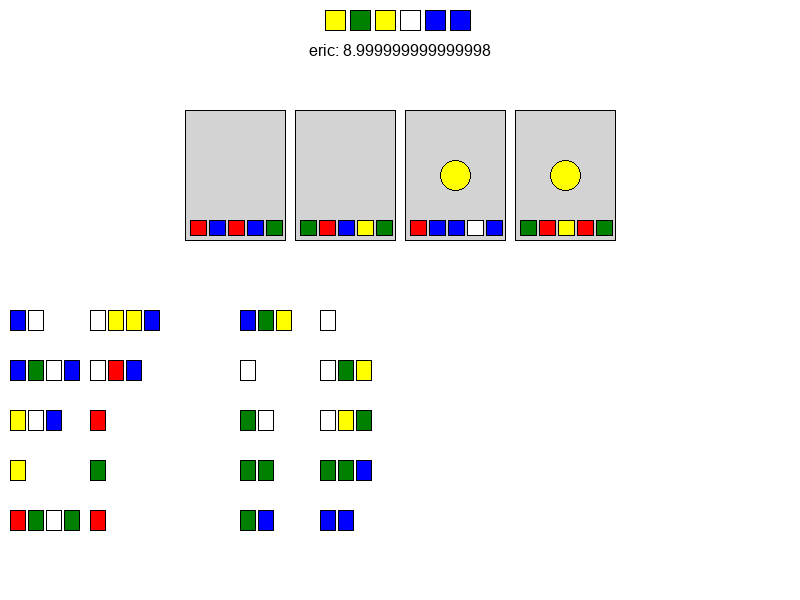
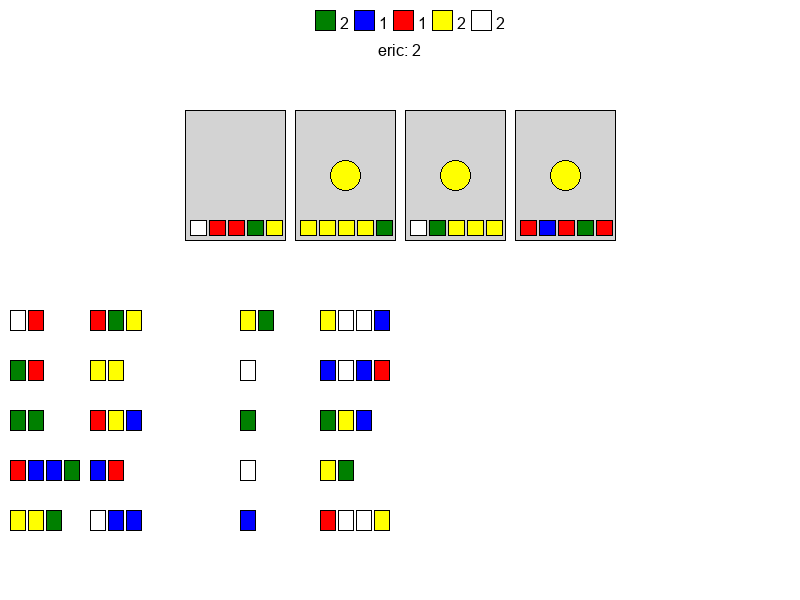
changed data types and implemented validity

diff --git a/components/referee.py b/components/referee.py
@@ -3,7 +3,7 @@ from .pebble import Pebble
 from .equation import Equation
 from .card import Card
 from math import prod
-
+from collections import Counter
 class Referee(object):
 
     def __init__(self,num_equations=10,cards_in_deck=20,cards_in_field=4,num_of_pebbles=100):
@@ -45,40 +45,79 @@ class Referee(object):
         return cards
     
     def initialize_bank(self):
-        bank = []
+        bank = {}
         for i in range(self.num_of_pebbles):
-            bank.append(choice(list(Pebble)))
+            pebble = choice(list(Pebble))
+            if pebble in bank.keys():
+                bank[pebble] += 1
+            else:
+                bank[pebble] = 1
         return bank
 
-    def live(self,board):
-        return 0 != prod([len(board.bank) > 0, len(board.fieldcards) > 0])
+    def live(self,board,players):
+        return len(board.deck) > 0 and 0 != prod([player.score < 20 for player in players])  
     
     def draw(self,board,player):
-        pebble = board.bank.pop(-1)
+        pebble = choice(list(board.bank.keys()))
+        board.bank[pebble] += -1
         player.draw(pebble)
     
     def exchange(self,query,board,player):
         equation = board.equations[query['equation']]
-        try:
-            for input in equation.input:
-                player.pebbles.remove(input)
-            for output in equation.output:
-                board.bank.remove(output)
-                player.draw(output)
-        except:
-            print("invalid exchange")
+        for input in equation.input:
+            player.pebbles[input] += -1
+        for output in equation.output:
+            board.bank[output] += -1
+            player.draw(output)
 
+    def legal_exchange(self,query,board,player):
+        equation = board.equations[query['equation']]
+        inputs = dict(Counter(equation.input))
+        outputs = dict(Counter(equation.output))
+        legal = True
+        for color in inputs.keys():
+            legal = color in player.pebbles.keys() and player.pebbles[color] >= inputs[color]
+            if legal == False:
+                return False
+            else:
+                continue
+        for color in outputs.keys():
+            legal = color in board.bank.keys() and board.bank[color] >= outputs[color]
+            if legal == False:
+                return False
+            else:
+                continue
+        return legal
+    
     def purchase(self,query,board,player):
         card = board.fieldcards[query['card']]
         inputs = card.cost
         try:
             for input in inputs:
-                player.pebbles.remove(input)
+                player.pebbles[input] += -1
             board.fieldcards.pop(query['card'])
             board.fieldcards.append(board.deck.pop(-1))
+            return card
         except Exception as e:
             print(str(e))
             print("invalid purchase")
     
-    def score(self,player):
-        player.score += len(player.pebbles) / 3
+    def legal_purchase(self,query,board,player):
+        card = board.fieldcards[query['card']]
+        cost = dict(Counter(card.cost))
+        legal = True
+        for color in cost.keys():
+            if color not in player.pebbles.keys() or player.pebbles[color] < cost[color]:
+                return False
+        return legal
+    
+    def score(self,player,card):
+        if sum(player.pebbles.values()) > 3:
+            player.score += 2 if card.smiley else 1
+        elif sum(player.pebbles.values()) > 2:
+            player.score +=  3 if card.smiley else 2
+        elif sum(player.pebbles.values()) > 1:
+            player.score +=  5 if card.smiley else 3
+        else:
+            player.score +=  8 if card.smiley else 5
+        

diff --git a/controller/controller.py b/controller/controller.py
@@ -1,7 +1,5 @@
 from components.action import Action
-from components.utils import Utils
-import sys
-import json
+
 class Controller:
     def __init__(self, model, view):
         self.model = model
@@ -21,7 +19,7 @@ class Controller:
         self.view.save_as_png("state.png")
     
     def live(self):
-        return self.model.referee.live(self.model.board)
+        return self.model.referee.live(self.model.board,self.model.players)
     
     def turn(self,input):
         action = input["action"]
@@ -29,13 +27,20 @@ class Controller:
         try:
             if action == f"{Action.DRAW.value}":
                 self.model.referee.draw(self.model.board,self.model.players[self.model.active_player_index])
+                return
             elif action == f"{Action.EXCHANGE.value}":
-                self.model.referee.exchange(query,self.model.board,self.model.players[self.model.active_player_index])
+                if self.model.referee.legal_exchange(query,self.model.board,self.model.players[self.model.active_player_index]):
+                    self.model.referee.exchange(query,self.model.board,self.model.players[self.model.active_player_index])
+                else:
+                    print("invalid exchange")
             elif action == f"{Action.PURCHASE.value}":
-                self.model.referee.purchase(query,self.model.board,self.model.players[self.model.active_player_index])
-                self.model.referee.score(self.model.players[self.model.active_player_index])
+                if self.model.referee.legal_purchase(query,self.model.board,self.model.players[self.model.active_player_index]):
+                    card = self.model.referee.purchase(query,self.model.board,self.model.players[self.model.active_player_index])
+                    self.model.referee.score(self.model.players[self.model.active_player_index], card)
+                else:
+                    print("invalid purchase")
             elif action == f"{Action.END.value}":
-                sys.exit()
+                return
             else:
                 print("invalid command")
         except Exception as e:

diff --git a/view/view.py b/view/view.py
@@ -132,15 +132,42 @@ class View:
         color_width = 20  # Reduced size for player colors
         color_height = 20
         padding = 5
+        text_padding = 5
 
-        start_x = (self.width - (len(colors) * (color_width + padding))) // 2
+        # Calculate the total width needed for colors and their associated text
+        total_width = sum(
+            color_width + padding + (self.draw.textbbox((0, 0), str(count), font=self.font)[2] - self.draw.textbbox((0, 0), str(count), font=self.font)[0])
+            for _, count in colors.items()
+        )
 
-        for i, color in enumerate(colors):
+        # Calculate the starting x position to center the colors and their counts
+        start_x = (self.width - total_width) // 2
+
+        current_x = start_x
+        for color, count in colors.items():
+            # Draw the color block
             self.draw.rectangle(
-                [start_x + i * (color_width + padding), 10, start_x + i * (color_width + padding) + color_width, 10 + color_height],
+                [current_x, 10, current_x + color_width, 10 + color_height],
                 fill=color.value,
                 outline="black"
             )
+
+            # Draw the count next to the color block
+            count_text = str(count)
+            text_bbox = self.draw.textbbox((0, 0), count_text, font=self.font)
+            text_width = text_bbox[2] - text_bbox[0]
+            text_height = text_bbox[3] - text_bbox[1]
+
+            self.draw.text(
+                (current_x + color_width + text_padding, 10 + (color_height - text_height) // 2),
+                count_text,
+                font=self.font,
+                fill="black"
+            )
+
+            # Move the x position for the next color and count
+            current_x += color_width + padding + text_width + text_padding
+
 
     def draw_player_score(self, player_name, score):
         text = f"{player_name}: {score}"

diff --git a/app/app.py b/app/app.py
@@ -35,14 +35,18 @@ class App:
         controller = Controller(model,view)
         controller.setup()
         controller.render()
-        while controller.model.referee.live(controller.model.board) == True:
+        while controller.live() == True:
             active_player = controller.model.players[controller.model.turn % len(controller.model.players)]
-            commands = [active_player.move()] if active_player.isai == True else Utils.extract_json_objects(self.server.receive()) 
-            if len(commands) > 0:
-                controller.render()
-                for command in commands:
-                    controller.turn(command)
-                controller.model.turn += 1
-                controller.change_player()
-                controller.render()
+            try:
+                commands = [active_player.move()] if active_player.isai == True else Utils.extract_json_objects(self.server.receive()) 
+                if len(commands) > 0:
+                    controller.render()
+                    for command in commands:
+                        controller.turn(command)
+                    controller.model.turn += 1
+                    controller.change_player()
+                    controller.render()
+            except Exception as e:
+                print(str(e))
+                print("invalid command")
         self.server.close()

diff --git a/components/player.py b/components/player.py
@@ -3,10 +3,12 @@ class Player(object):
 
     def __init__(self,name):
         self.name = name
-        self.pebbles = [Pebble.BLUE]
-        self.cards = []
+        self.pebbles = {}
         self.score = 0
         self.isai = False
     
     def draw(self,pebble):
-        self.pebbles.append(pebble)
+        if pebble in self.pebbles.keys():
+            self.pebbles[pebble] +=1
+        else:
+            self.pebbles[pebble] =1

diff --git a/client/client.py b/client/client.py
@@ -29,6 +29,7 @@ class Client:
         except json.JSONDecodeError as e:
             response = {'status': 'error', 'message': 'Invalid JSON'}
             self.socket.send_json(response)
+            return None
     
     def send(self, data):
         try:
